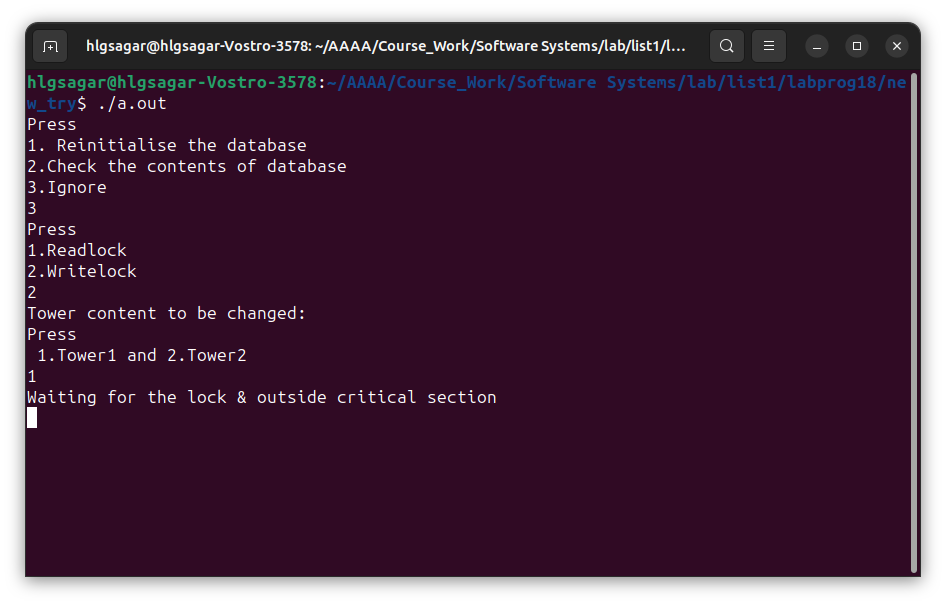
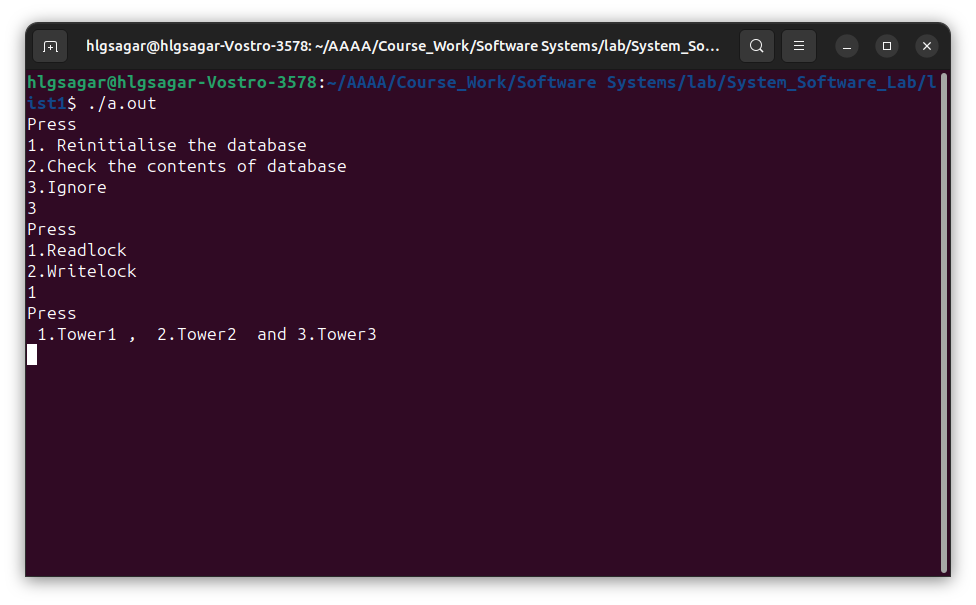
Rechecked

diff --git a/list1/18.c b/list1/18.c
@@ -25,7 +25,7 @@ int tower;
 //Now initialising the database with some values , and table structure is mentioned according above mentioed structure
 void dbinitalise(){
  int wrt;
- printf("We have 2 towers and Number of disks under it is modifable\n");
+ printf("We have 3 towers and Number of disks under it is modifable\n");
  printf("Initlaising\n");
  
  
@@ -36,8 +36,8 @@ void dbinitalise(){
  }
  
  //initlaising the structure
- struct TOD t[2];// considered 2 disks 
- for(int i=0;i<2;i++){
+ struct TOD t[3];// considered 2 disks 
+ for(int i=0;i<3;i++){
  
  printf("\nPlease enter number of disks to be at tower %d: ",(i+1));
  scanf("%d",&t[i].disk);
@@ -63,7 +63,7 @@ void debugread(){
   int rd;
   int file = open("textfiles/18db.txt",O_RDONLY);
   struct TOD check;
-  for(int i=0;i<2;i++ ){
+  for(int i=0;i<3;i++ ){
     rd = read(file,&check,sizeof(check));
     printf("Disk:%d\nTower:%d\n\n",check.disk,check.tower);
   }
@@ -219,7 +219,7 @@ int main(){
   if (choice==1){
   //readlock
   int twr;
-  printf("Press\n 1.Tower1 and 2.Tower2\n");
+  printf("Press\n 1.Tower1 ,  2.Tower2  and 3.Tower3\n");
   scanf("%d",&twr);
   readlock(twr);
   
@@ -229,7 +229,7 @@ int main(){
   
    int twr;
    printf("Tower content to be changed:\n");
-   printf("Press\n 1.Tower1 and 2.Tower2\n");
+   printf("Press\n 1.Tower1 ,  2.Tower2  and 3.Tower3\n");
    scanf("%d",&twr);
    writelock(twr);
    

diff --git a/list1/17b.c b/list1/17b.c
@@ -43,6 +43,9 @@ int main(){
 	write(filed, &buf, sizeof(buf));
 	//Because of above, we are overwritng.
 	
+	printf("Press Enter to come out of lock(critical section)\n");
+	getchar();
+	//getchar();
 	
         mylock.l_type = F_UNLCK;
         // after all the operations to be performed, now it getting unlocked.
